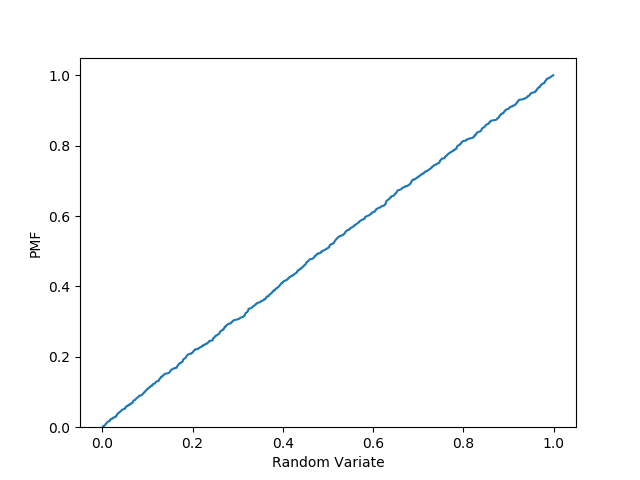
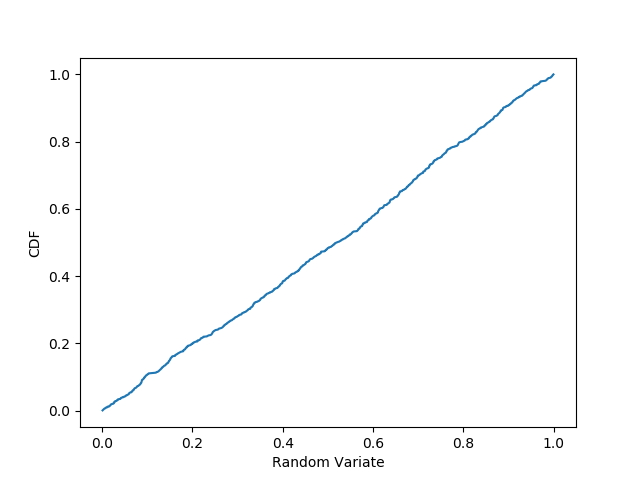
change the y label of cdf

diff --git a/statistics/4-2-random_dist.md b/statistics/4-2-random_dist.md
@@ -19,6 +19,9 @@
 >>![](https://github.com/leeguoo/dsp/blob/master/statistics/4_2_pmf.png)
 >>
 >>```python
+>> plt.figure()
+>> plt.ylabel("CDF")
+>> plt.xlabel("Random Variate")
 >> plt.plot(x,1.0*np.cumsum(y)/y.sum())
 >> plt.savefig("4_2_cdf.png")
 >>```  
